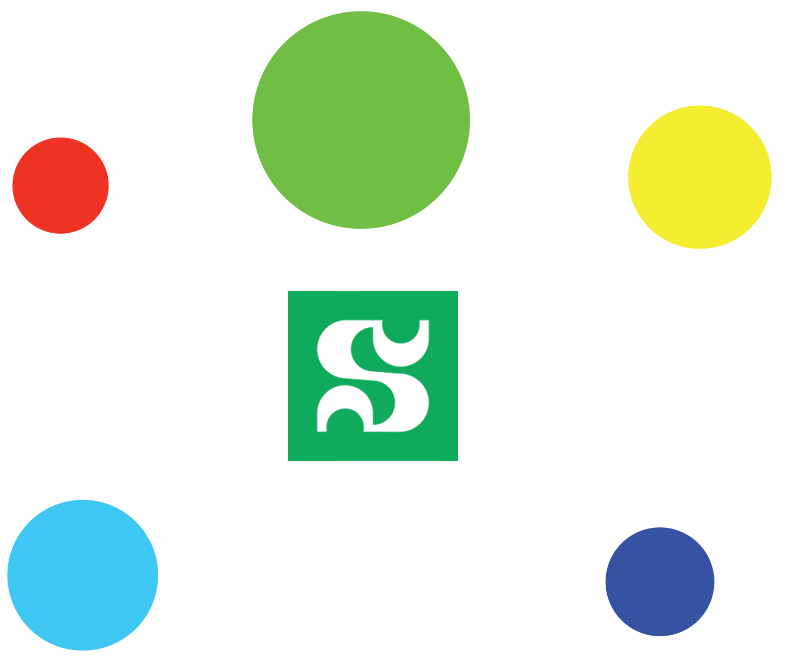
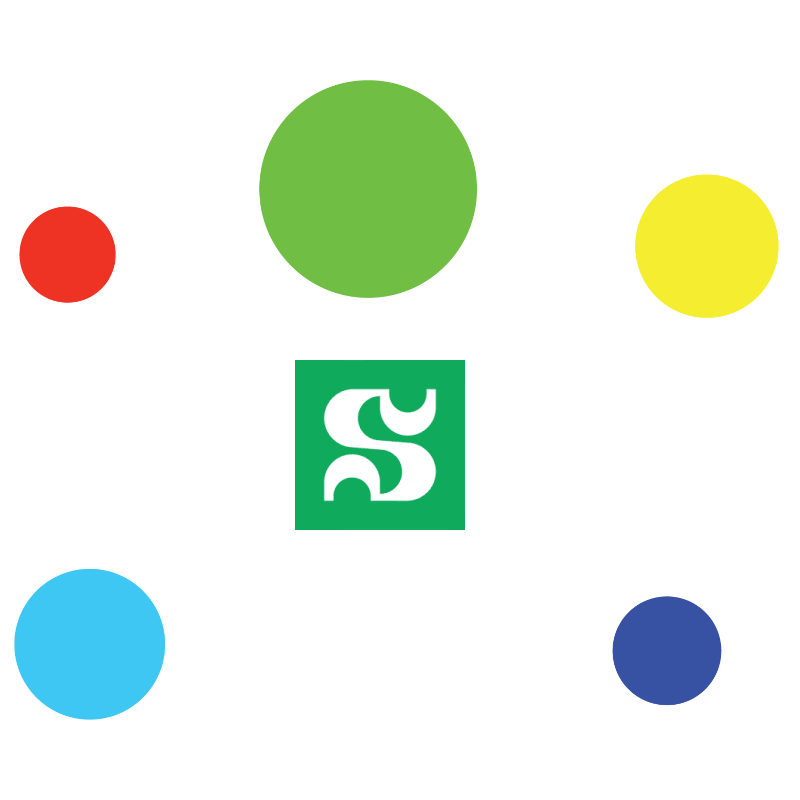
test

diff --git a/content/en/home/welcome.md b/content/en/home/welcome.md
@@ -4,7 +4,7 @@ widget_id: MEDomics-UdeS
 headless: true
 weight: 10
 title: ""
-hero_media: welcome.jpg
+hero_media: icon.png
 design:
   columns: "1"
   css_style: null

diff --git a/content/fr/home/welcome.md b/content/fr/home/welcome.md
@@ -4,7 +4,7 @@ widget_id: MEDomics-UdeS
 headless: true
 weight: 10
 title: ""
-hero_media: welcome.jpg
+hero_media: icon.png
 design:
   columns: "1"
   css_style: null
